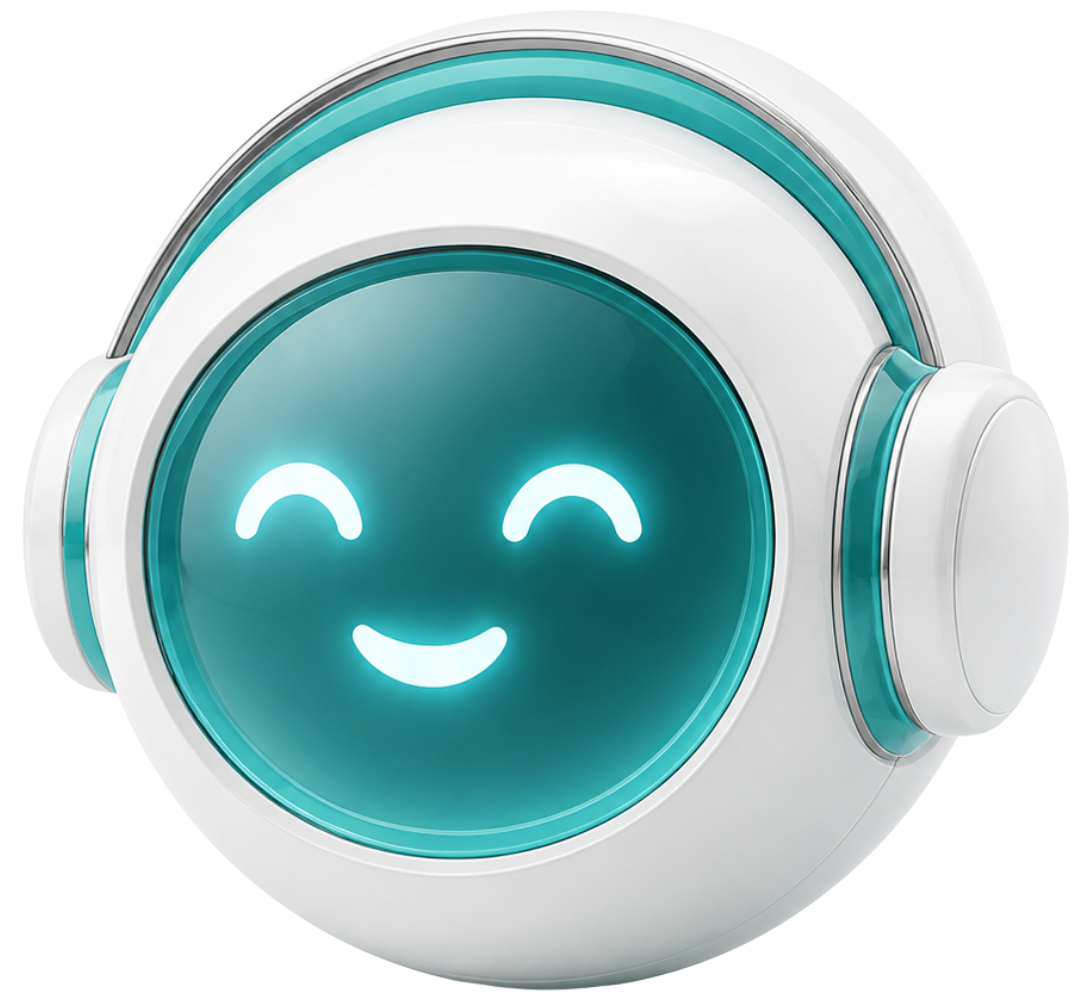
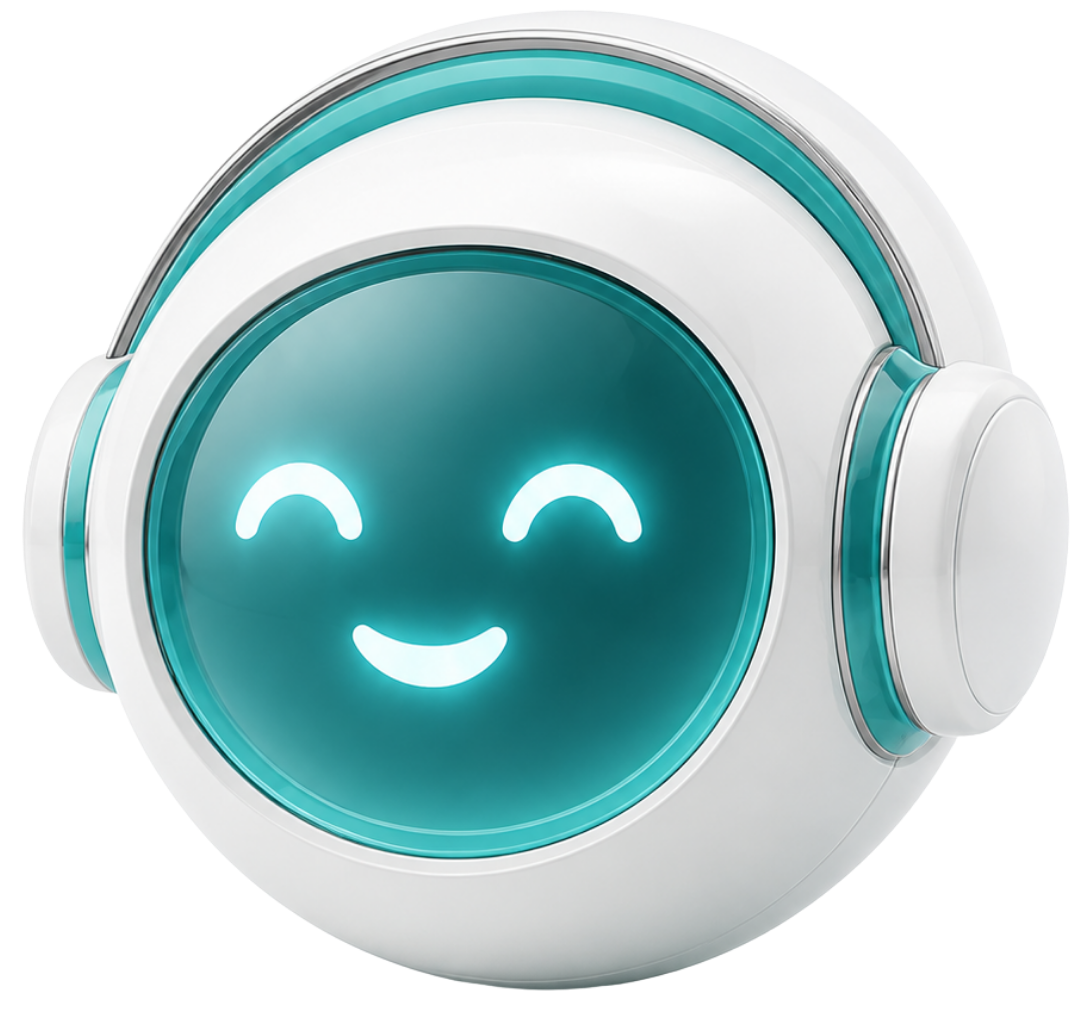
Refine voice home experience

diff --git a/src/components/home/voice-home.tsx b/src/components/home/voice-home.tsx
@@ -176,8 +176,8 @@ const homeContent: Record<'en' | 'es', HomeContent> = {
       { side: 'soro', text: 'All set! Your appointment is confirmed. I will send you a reminder before your visit.', time: '10:26', appointment: true },
     ],
     voiceOrbLabels: {
-      idle: 'Tap SORO to talk', connecting: 'Connecting with Mary…', listening: 'Mary is listening…',
-      speaking: 'Mary is responding…', ending: 'Ending the conversation…',
+      idle: 'Tap SORO to talk', connecting: 'Connecting with Andrew…', listening: 'Andrew is listening…',
+      speaking: 'Andrew is responding…', ending: 'Ending the conversation…',
       error: 'We could not connect. Tap to try again.', unconfigured: 'The Vapi public key has not been configured',
     },
     heroTitle: 'Your clinic always answers',
@@ -206,8 +206,8 @@ const homeContent: Record<'en' | 'es', HomeContent> = {
     listeningStatus: 'SORO is listening…',
     inactiveStatus: 'Voice experience inactive',
     orbImageAlt: 'SORO face; tap it to start a voice conversation',
-    startMaryAria: 'Talk with Mary, SORO assistant',
-    stopMaryAria: 'End conversation with Mary',
+    startMaryAria: 'Talk with Andrew, SORO assistant',
+    stopMaryAria: 'End conversation with Andrew',
     leadPromptTitle: 'Want to keep talking?',
     leadPromptDescription: 'Leave your details and our team will continue with you after this call.',
     leadPromptDismiss: 'Not now',
@@ -271,8 +271,8 @@ const homeContent: Record<'en' | 'es', HomeContent> = {
       { side: 'soro', text: '¡Listo! Tu cita quedó confirmada. Te enviaré un recordatorio antes de la consulta.', time: '10:26', appointment: true },
     ],
     voiceOrbLabels: {
-      idle: 'Toca a SORO para hablar', connecting: 'Conectando con Mary…', listening: 'Mary te está escuchando…',
-      speaking: 'Mary está respondiendo…', ending: 'Finalizando la conversación…',
+      idle: 'Toca a SORO para hablar', connecting: 'Conectando con Andrew…', listening: 'Andrew te está escuchando…',
+      speaking: 'Andrew está respondiendo…', ending: 'Finalizando la conversación…',
       error: 'No pudimos conectar. Toca para intentar de nuevo.', unconfigured: 'Falta configurar la clave pública de Vapi',
     },
     heroTitle: 'Tu clínica siempre responde',
@@ -301,8 +301,8 @@ const homeContent: Record<'en' | 'es', HomeContent> = {
     listeningStatus: 'SORO está escuchando…',
     inactiveStatus: 'Experiencia de voz inactiva',
     orbImageAlt: 'Rostro de SORO; tócalo para iniciar la conversación por voz',
-    startMaryAria: 'Hablar con Mary, asistente de SORO',
-    stopMaryAria: 'Finalizar conversación con Mary',
+    startMaryAria: 'Hablar con Andrew, asistente de SORO',
+    stopMaryAria: 'Finalizar conversación con Andrew',
     leadPromptTitle: 'Si quieres seguir hablando',
     leadPromptDescription: 'Rellena tus datos y nuestro equipo continuara contigo despues de esta conversacion.',
     leadPromptDismiss: 'Ahora no',
@@ -565,6 +565,33 @@ function VoiceLeadCapture({
 }
 
 const VAPI_PUBLIC_KEY = process.env.NEXT_PUBLIC_VAPI_PUBLIC_KEY?.trim();
+const SORO_ASSISTANT_IMAGE_URL =
+  'https://firebasestorage.googleapis.com/v0/b/studio-7377357488-df5a7.firebasestorage.app/o/Soro%2FSorohome.png?alt=media&token=d3d39afd-702b-4a00-a61d-19a95d1176fb';
+
+function shouldIgnoreKrispConsoleError(args: unknown[]) {
+  return args.some((arg) => {
+    if (typeof arg === 'string') {
+      return arg.includes('Error unloading krisp processor') || arg.includes('WASM_OR_WORKER_NOT_READY');
+    }
+
+    if (arg instanceof Error) {
+      return (
+        arg.message.includes('Error unloading krisp processor') ||
+        arg.message.includes('WASM_OR_WORKER_NOT_READY')
+      );
+    }
+
+    if (arg && typeof arg === 'object' && 'message' in arg && typeof arg.message === 'string') {
+      return (
+        arg.message.includes('Error unloading krisp processor') ||
+        arg.message.includes('WASM_OR_WORKER_NOT_READY')
+      );
+    }
+
+    return false;
+  });
+}
+
 const VAPI_ASSISTANTS: Record<HomeContent['lang'], { assistantId: string; assistantOverrides?: AssistantOverrides }> = {
   en: {
     assistantId: '49b2b068-4fff-495f-bb3f-5d55fb844a45',
@@ -690,12 +717,29 @@ function VoiceOrbExperience({ content }: { content: HomeContent }) {
   const [isLeadSubmitting, setIsLeadSubmitting] = useState(false);
   const [isLeadSubmitted, setIsLeadSubmitted] = useState(false);
   const waveLayerRef = useRef<HTMLDivElement>(null);
+  const orbShellRef = useRef<HTMLButtonElement>(null);
   const statusRef = useRef<VoiceOrbStatus>(initialStatus);
   const vapiRef = useRef<import('@vapi-ai/web').default | null>(null);
   const localVolumeRef = useRef(0);
   const remoteVolumeRef = useRef(0);
   const animationFrameRef = useRef<number | null>(null);
   const leadCaptureTimerRef = useRef<number | null>(null);
+
+  useEffect(() => {
+    const originalConsoleError = window.console.error;
+
+    window.console.error = (...args: unknown[]) => {
+      if (shouldIgnoreKrispConsoleError(args)) {
+        return;
+      }
+
+      originalConsoleError(...args);
+    };
+
+    return () => {
+      window.console.error = originalConsoleError;
+    };
+  }, []);
 
   const clearLeadCaptureTimer = () => {
     if (leadCaptureTimerRef.current !== null) {
@@ -841,6 +885,13 @@ function VoiceOrbExperience({ content }: { content: HomeContent }) {
         waveLayerRef.current.style.setProperty('--voice-opacity', isConnected ? '1' : '0.72');
       }
 
+      if (orbShellRef.current) {
+        const orbScale = isConnected
+          ? Math.min(1, 0.9 + voiceLevel * 0.11)
+          : 0.9 + idlePulse * 0.03;
+        orbShellRef.current.style.setProperty('--orb-scale', orbScale.toFixed(3));
+      }
+
       animationFrameRef.current = window.requestAnimationFrame(draw);
     };
 
@@ -873,12 +924,14 @@ function VoiceOrbExperience({ content }: { content: HomeContent }) {
         <span className={styles.soundReactiveWave}><VoiceBars active /></span>
       </div>
       <button
+        ref={orbShellRef}
         type="button"
         data-testid="hero-voice-orb"
         onClick={toggleConversation}
         aria-pressed={isActive}
         aria-label={isActive ? content.stopMaryAria : content.startMaryAria}
-        className="group relative z-10 mt-6 block w-[88vw] max-w-[520px] rounded-full focus-visible:outline-none focus-visible:ring-4 focus-visible:ring-primary/25 focus-visible:ring-offset-8 sm:mt-8"
+        className="group relative z-10 mt-6 block w-[56vw] max-w-[290px] rounded-full focus-visible:outline-none focus-visible:ring-4 focus-visible:ring-primary/25 focus-visible:ring-offset-8 sm:mt-8"
+        style={{ transform: 'scale(var(--orb-scale, 0.92))' }}
       >
         <span className={cn(
           'absolute inset-[7%] rounded-full border-2 border-primary/20 transition-all duration-500',
@@ -887,20 +940,20 @@ function VoiceOrbExperience({ content }: { content: HomeContent }) {
         <span className="absolute inset-[2%] rounded-full border border-teal-100 transition-transform duration-500 group-hover:scale-105" />
         <span className={cn('relative block transition-transform duration-500 group-hover:scale-[1.025]', styles.heroAssistant)}>
           <Image
-            src="/images/soro-voice-assistant-light.png"
+            src={SORO_ASSISTANT_IMAGE_URL}
             alt={content.orbImageAlt}
             width={1254}
             height={1254}
             priority
-            sizes="(max-width: 640px) 88vw, 520px"
+            sizes="(max-width: 640px) 56vw, 290px"
             className="h-auto w-full"
           />
         </span>
         <span className={cn(
-          'absolute bottom-[9%] left-1/2 flex size-14 -translate-x-1/2 items-center justify-center rounded-full bg-primary text-white shadow-[0_12px_35px_rgba(20,184,166,0.32)] transition-transform duration-300',
+          'absolute bottom-[9%] left-1/2 flex size-11 -translate-x-1/2 items-center justify-center rounded-full bg-primary text-white shadow-[0_12px_35px_rgba(20,184,166,0.32)] transition-transform duration-300',
           isActive ? 'scale-110' : 'group-hover:scale-110'
         )}>
-          {isActive ? <VolumeX aria-hidden="true" className="size-6" /> : <Mic aria-hidden="true" className="size-6" />}
+          {isActive ? <VolumeX aria-hidden="true" className="size-4.5" /> : <Mic aria-hidden="true" className="size-4.5" />}
         </span>
       </button>
       <div
@@ -1138,15 +1191,15 @@ function VoiceInvitation({ content }: { content: HomeContent }) {
             <VoiceExperience content={content} />
           </div>
         </div>
-        <div className="relative mx-auto w-full max-w-lg">
+        <div className="relative mx-auto w-full max-w-[320px]">
           <div className="absolute inset-x-6 bottom-8 h-20 rounded-full bg-teal-100/70 blur-3xl" />
           <Image
-            src="/images/soro-voice-assistant-light.png"
+            src={SORO_ASSISTANT_IMAGE_URL}
             alt={content.invitationImageAlt}
             width={1254}
             height={1254}
             priority
-            sizes="(max-width: 1024px) 90vw, 520px"
+            sizes="(max-width: 1024px) 64vw, 320px"
             className="relative h-auto w-full"
           />
         </div>

diff --git a/next.config.ts b/next.config.ts
@@ -42,6 +42,12 @@ const nextConfig: NextConfig = {
         port: '',
         pathname: '/**',
       },
+      {
+        protocol: 'https',
+        hostname: 'firebasestorage.googleapis.com',
+        port: '',
+        pathname: '/**',
+      },
     ],
   },
 };
